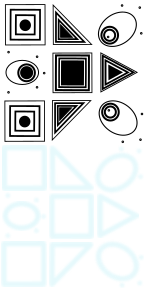
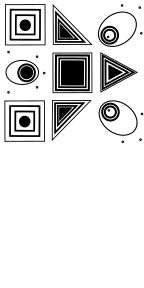
HUD + Graphics.

diff --git a/src/main_state.cpp b/src/main_state.cpp
@@ -154,9 +154,6 @@ void MainState::initialize() {
 	_map.setBgScroll(0, .4);
 	_map.setBgScroll(1, .7);
 
-	_root = _entities.root();
-	_ship = loadEntity("ship.json");
-
 	_shipShapes.push_back(Vector2(0,  1));
 	_shipShapes.push_back(Vector2(1,  1));
 	_shipShapes.push_back(Vector2(2,  1));
@@ -274,14 +271,41 @@ void MainState::startGame() {
 	_scrollPos     = 0;
 	_prevScrollPos = _scrollPos;
 
-	_levelColor = Vector4(112, 46, 188, 255) / 255.f;
+	_levelColor  = Vector4(112, 46, 188, 255) / 255.f;
+	_levelColor2 = Vector4(0, 1, 1, .5);
+	_beamColor   = _levelColor2;
+	_laserColor  = Vector4(1, 0, 0, .2);
+	_textColor   = Vector4(0, 1, 0, 1);
 
-	//FIXME
+	_root = _entities.root();
+
+	EntityRef hudTop = _entities.createEntity(_root, "hud_top");
+	_sprites.addComponent(hudTop);
+	hudTop.sprite()->setTexture("hud_top.png");
+	hudTop.sprite()->setAnchor(Vector2(0, 1));
+	hudTop.sprite()->setBlendingMode(BLEND_ALPHA);
+	hudTop.place(Vector3(0, 1080, 0));
+
+	EntityRef hudBottom = _entities.createEntity(_root, "hud_bottom");
+	_sprites.addComponent(hudBottom);
+	hudBottom.sprite()->setTexture("hud_bottom.png");
+	hudBottom.sprite()->setAnchor(Vector2(0, 0));
+	hudBottom.sprite()->setBlendingMode(BLEND_ALPHA);
+	hudBottom.place(Vector3(0, 0, 0));
+
+	_ship = loadEntity("ship.json");
 	_ship.place(Vector3(4*_blockSize, 5*_blockSize, 0));
+	_ship.sprite()->setColor(_levelColor2);
+	_ship.sprite()->setTileIndex(4);
 	_shipHSpeed = 0;
 	_shipVSpeed = 0;
 	_climbCharge = _thrustMaxCharge;
 	_diveCharge  = _thrustMaxCharge;
+
+	EntityRef ship2 = _ship.clone(_ship);
+	ship2.sprite()->setColor(_levelColor);
+	ship2.sprite()->setTileIndex(1);
+	ship2.place(Vector3(0, 0, 0));
 
 	_shipShape = 0;
 	_shipParts.resize(_shipPartCount);
@@ -291,9 +315,15 @@ void MainState::startGame() {
 	{
 		_shipParts[i] = _ship.clone(_ship, "shipPart");
 		_shipParts[i].sprite()->setTileGridSize(Vector2i(3, 6));
-		_shipParts[i].sprite()->setTileIndex(i + ((i<3)? 0: 3));
+		_shipParts[i].sprite()->setTileIndex(i + ((i<3)? 9: 12));
+		_shipParts[i].sprite()->setColor(_levelColor2);
 		Vector2 pos = partExpectedPosition(_shipShape, i);
 		_shipParts[i].place(Vector3(pos[0],pos[1],0));
+
+		EntityRef part2 = _shipParts[i].clone(_shipParts[i]);
+		part2.sprite()->setColor(_levelColor);
+		part2.sprite()->setTileIndex(i + ((i<3)? 0: 3));
+		part2.place(Vector3(0, 0, 0));
 
 		_partAlive[i] = true;
 		_partSpeeds[i] = Vector2(0,0);
@@ -305,16 +335,19 @@ void MainState::startGame() {
 	// ad-hoc value to compensate the fact that the baseline is wrong...
 	float tvOff = 8;
 	_scoreText = loadEntity("text.json", _root);
-	_scoreText.place(Vector3(1000, 1080 - tvOff, 0));
+	_scoreText.place(Vector3(1120, 1070 - tvOff, 0));
 	_texts.get(_scoreText)->setAnchor(Vector2(1, 1));
+	_texts.get(_scoreText)->setColor(_textColor);
 
 	_speedText = _scoreText.clone(_root);
-	_speedText.place(Vector3(200, 1080 - tvOff, 0));
+	_speedText.place(Vector3(230, 1070 - tvOff, 0));
 	_texts.get(_speedText)->setAnchor(Vector2(1, 1));
+	_texts.get(_scoreText)->setColor(_textColor);
 
 	_distanceText = _scoreText.clone(_root);
-	_distanceText.place(Vector3(200, -tvOff, 0));
+	_distanceText.place(Vector3(230, -tvOff, 0));
 	_texts.get(_distanceText)->setAnchor(Vector2(1, 0));
+	_texts.get(_scoreText)->setColor(_textColor);
 
 	loader()->waitAll();
 	renderer()->uploadPendingTextures();
@@ -598,10 +631,7 @@ void MainState::renderBeams(float interp) {
 	Vector2 mid = mid4.head<2>();
 	Vector2 laserOffset(1920, 0);
 
-	Vector4 laserColor(1, 0, 0, 1);
-	Vector4 beamsColor(0, .5, 1, 1);
-
-	renderBeam(wt, tex, mid, mid + laserOffset, laserColor, 0, 0, 2);
+	renderBeam(wt, tex, mid, mid + laserOffset, _laserColor, 0, 0, 2);
 	Vector2 shipPos[3];
 	for(int i = 0; i < 3; ++i) {
 		shipPos[i] = (wt * (mid4 + Vector4(_blockSize * i, 0, 0, 0))).head<2>();
@@ -610,11 +640,12 @@ void MainState::renderBeams(float interp) {
 		Matrix4 wt = lerp(interp,
 		                  _shipParts[i]._get()->prevWorldTransform.matrix(),
 		                  _shipParts[i]._get()->worldTransform.matrix());
-		renderBeam(wt, tex, mid, mid + laserOffset, laserColor, 0, 0, 2);
+		renderBeam(wt, tex, mid, mid + laserOffset, _laserColor, 0, 0, 2);
 
-		Vector2 partPos = (wt * mid4).head<2>();
+		Vector4 pp(.25 * _blockSize, ((i < 3)? .25: .75) * _blockSize, 0, 1);
+		Vector2 partPos = (wt * pp).head<2>();
 		float advance = float(_loop.frameTime()) / float(ONE_SEC) + i * .1;
-		renderBeam(Matrix4::Identity(), tex, shipPos[i%3], partPos, beamsColor,
+		renderBeam(Matrix4::Identity(), tex, shipPos[i%3], partPos, _beamColor,
 		           advance, 1, 2);
 	}
 }

diff --git a/src/main_state.h b/src/main_state.h
@@ -131,6 +131,10 @@ protected:
 	float       _distance;
 	unsigned    _score;
 	Vector4     _levelColor;
+	Vector4     _levelColor2;
+	Vector4     _beamColor;
+	Vector4     _laserColor;
+	Vector4     _textColor;
 
 	float       _shipHSpeed;
 	float       _shipVSpeed;
